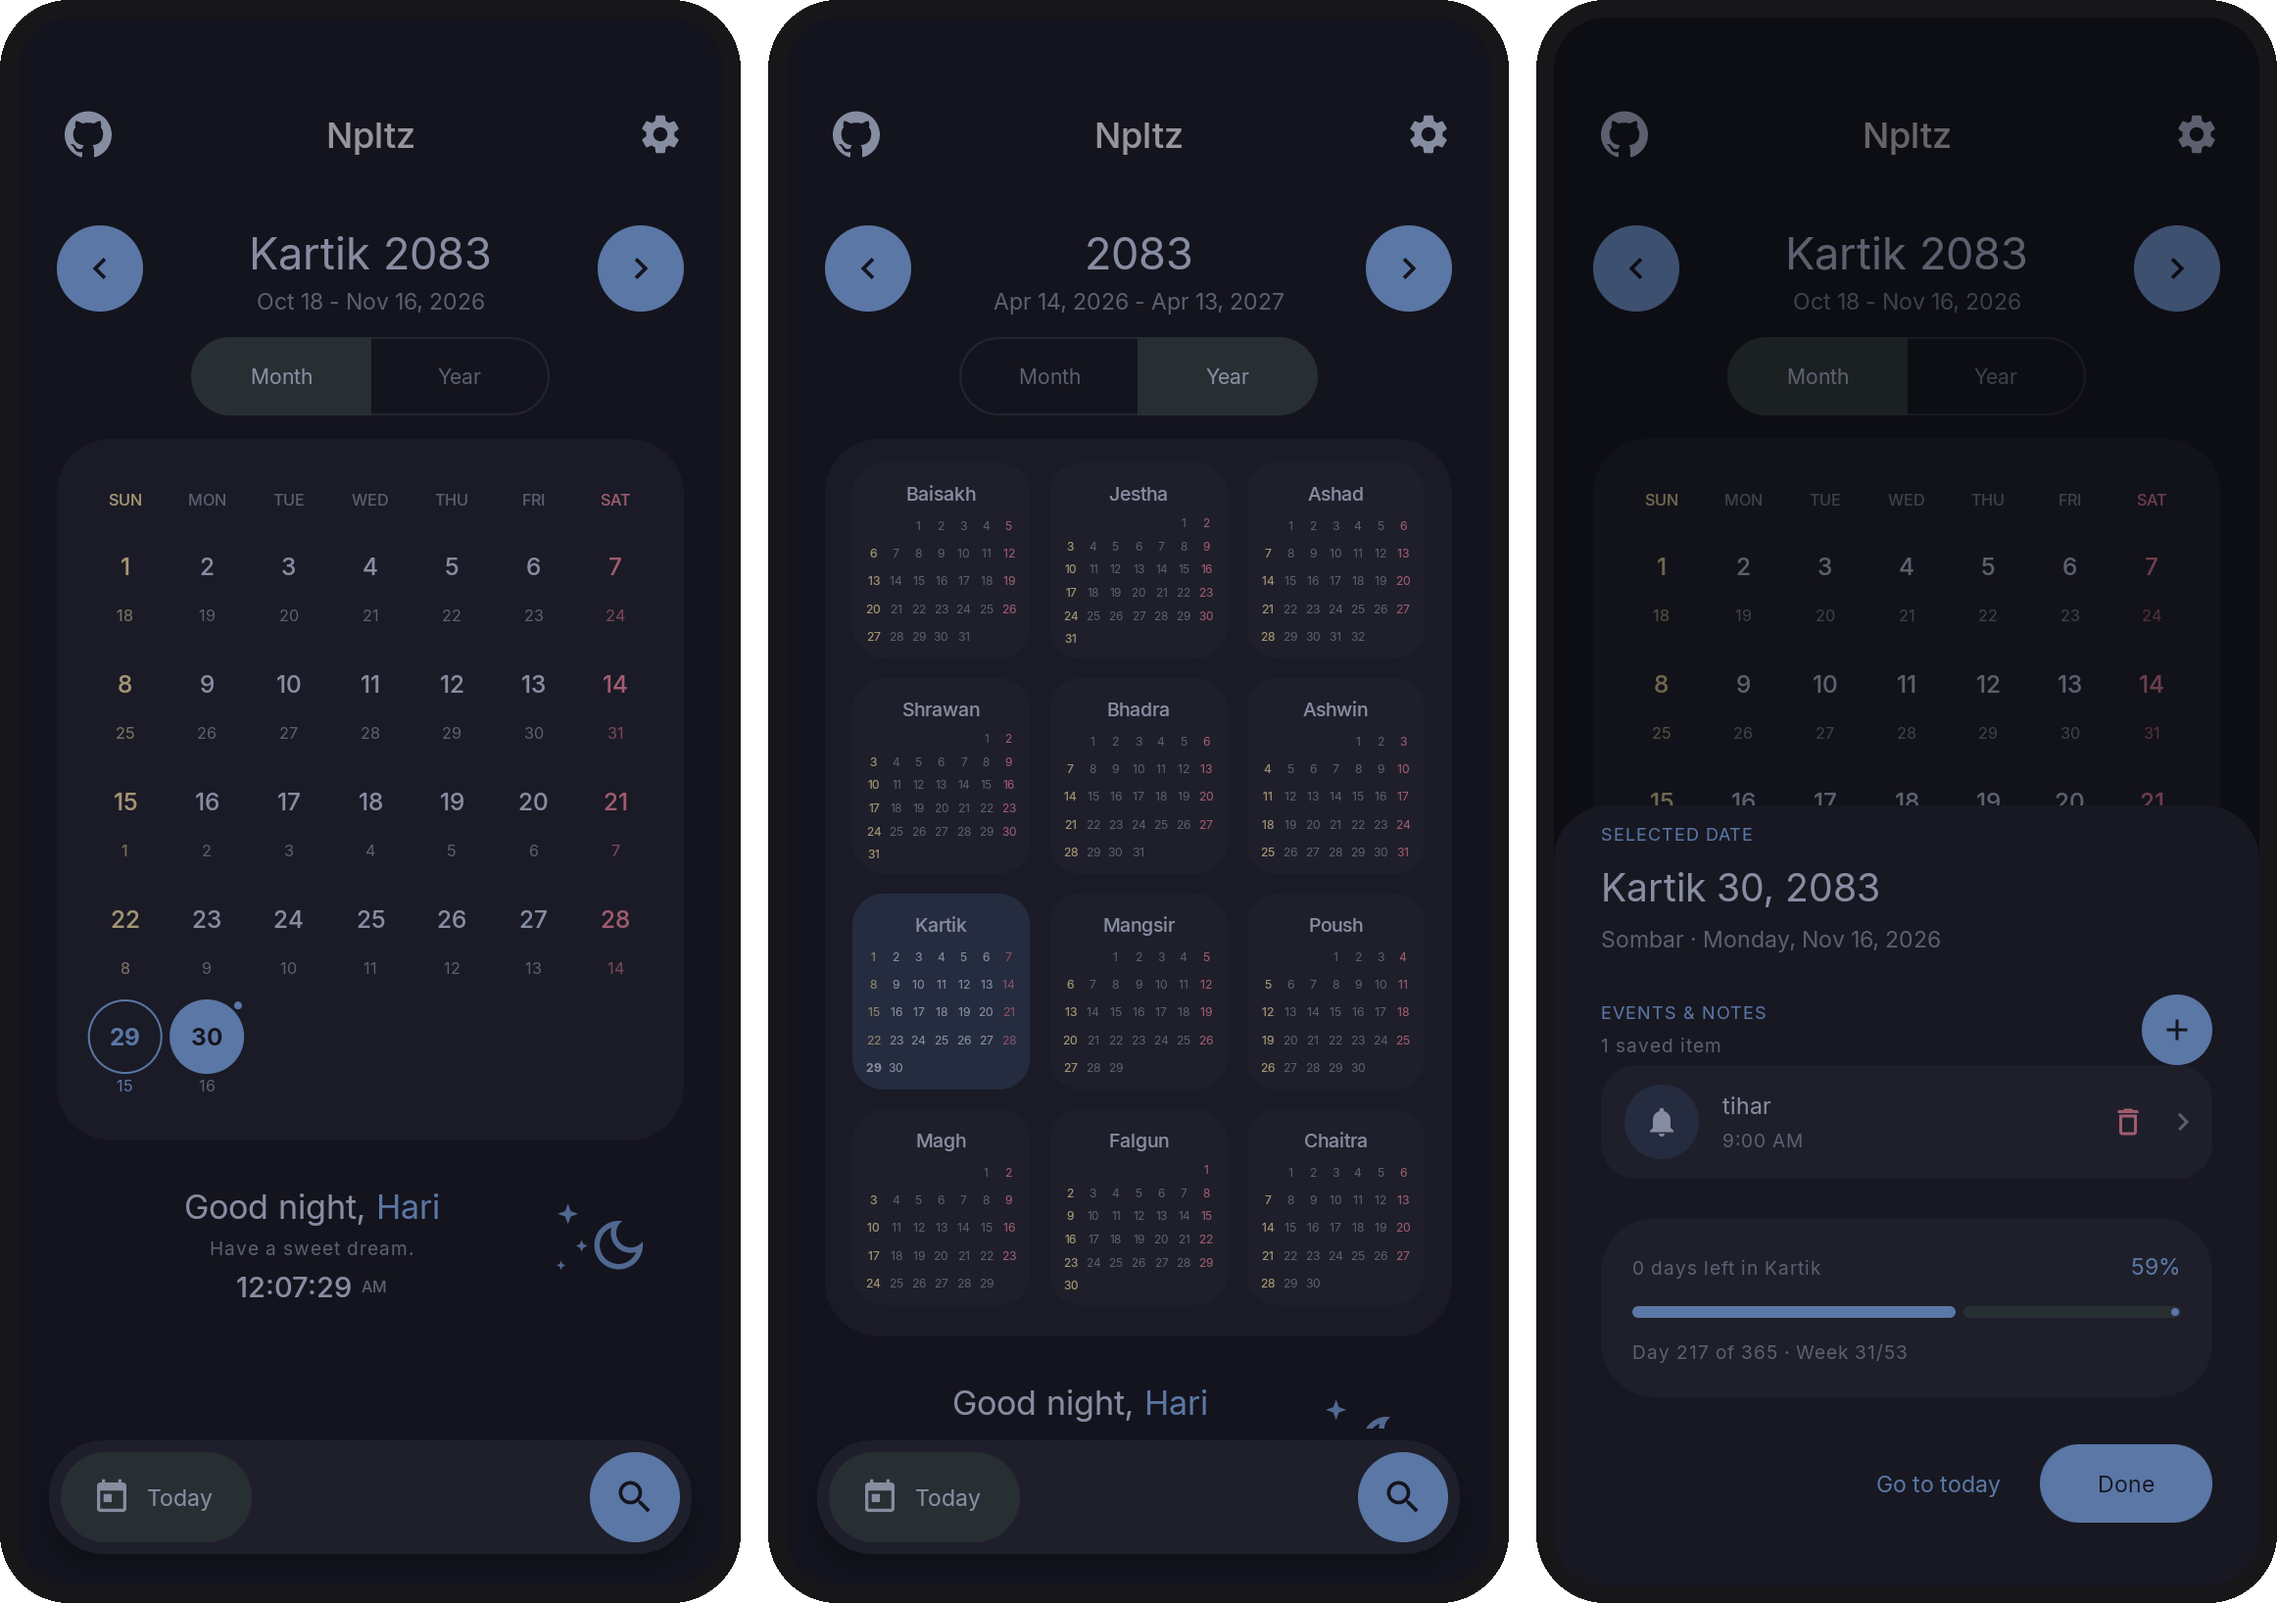
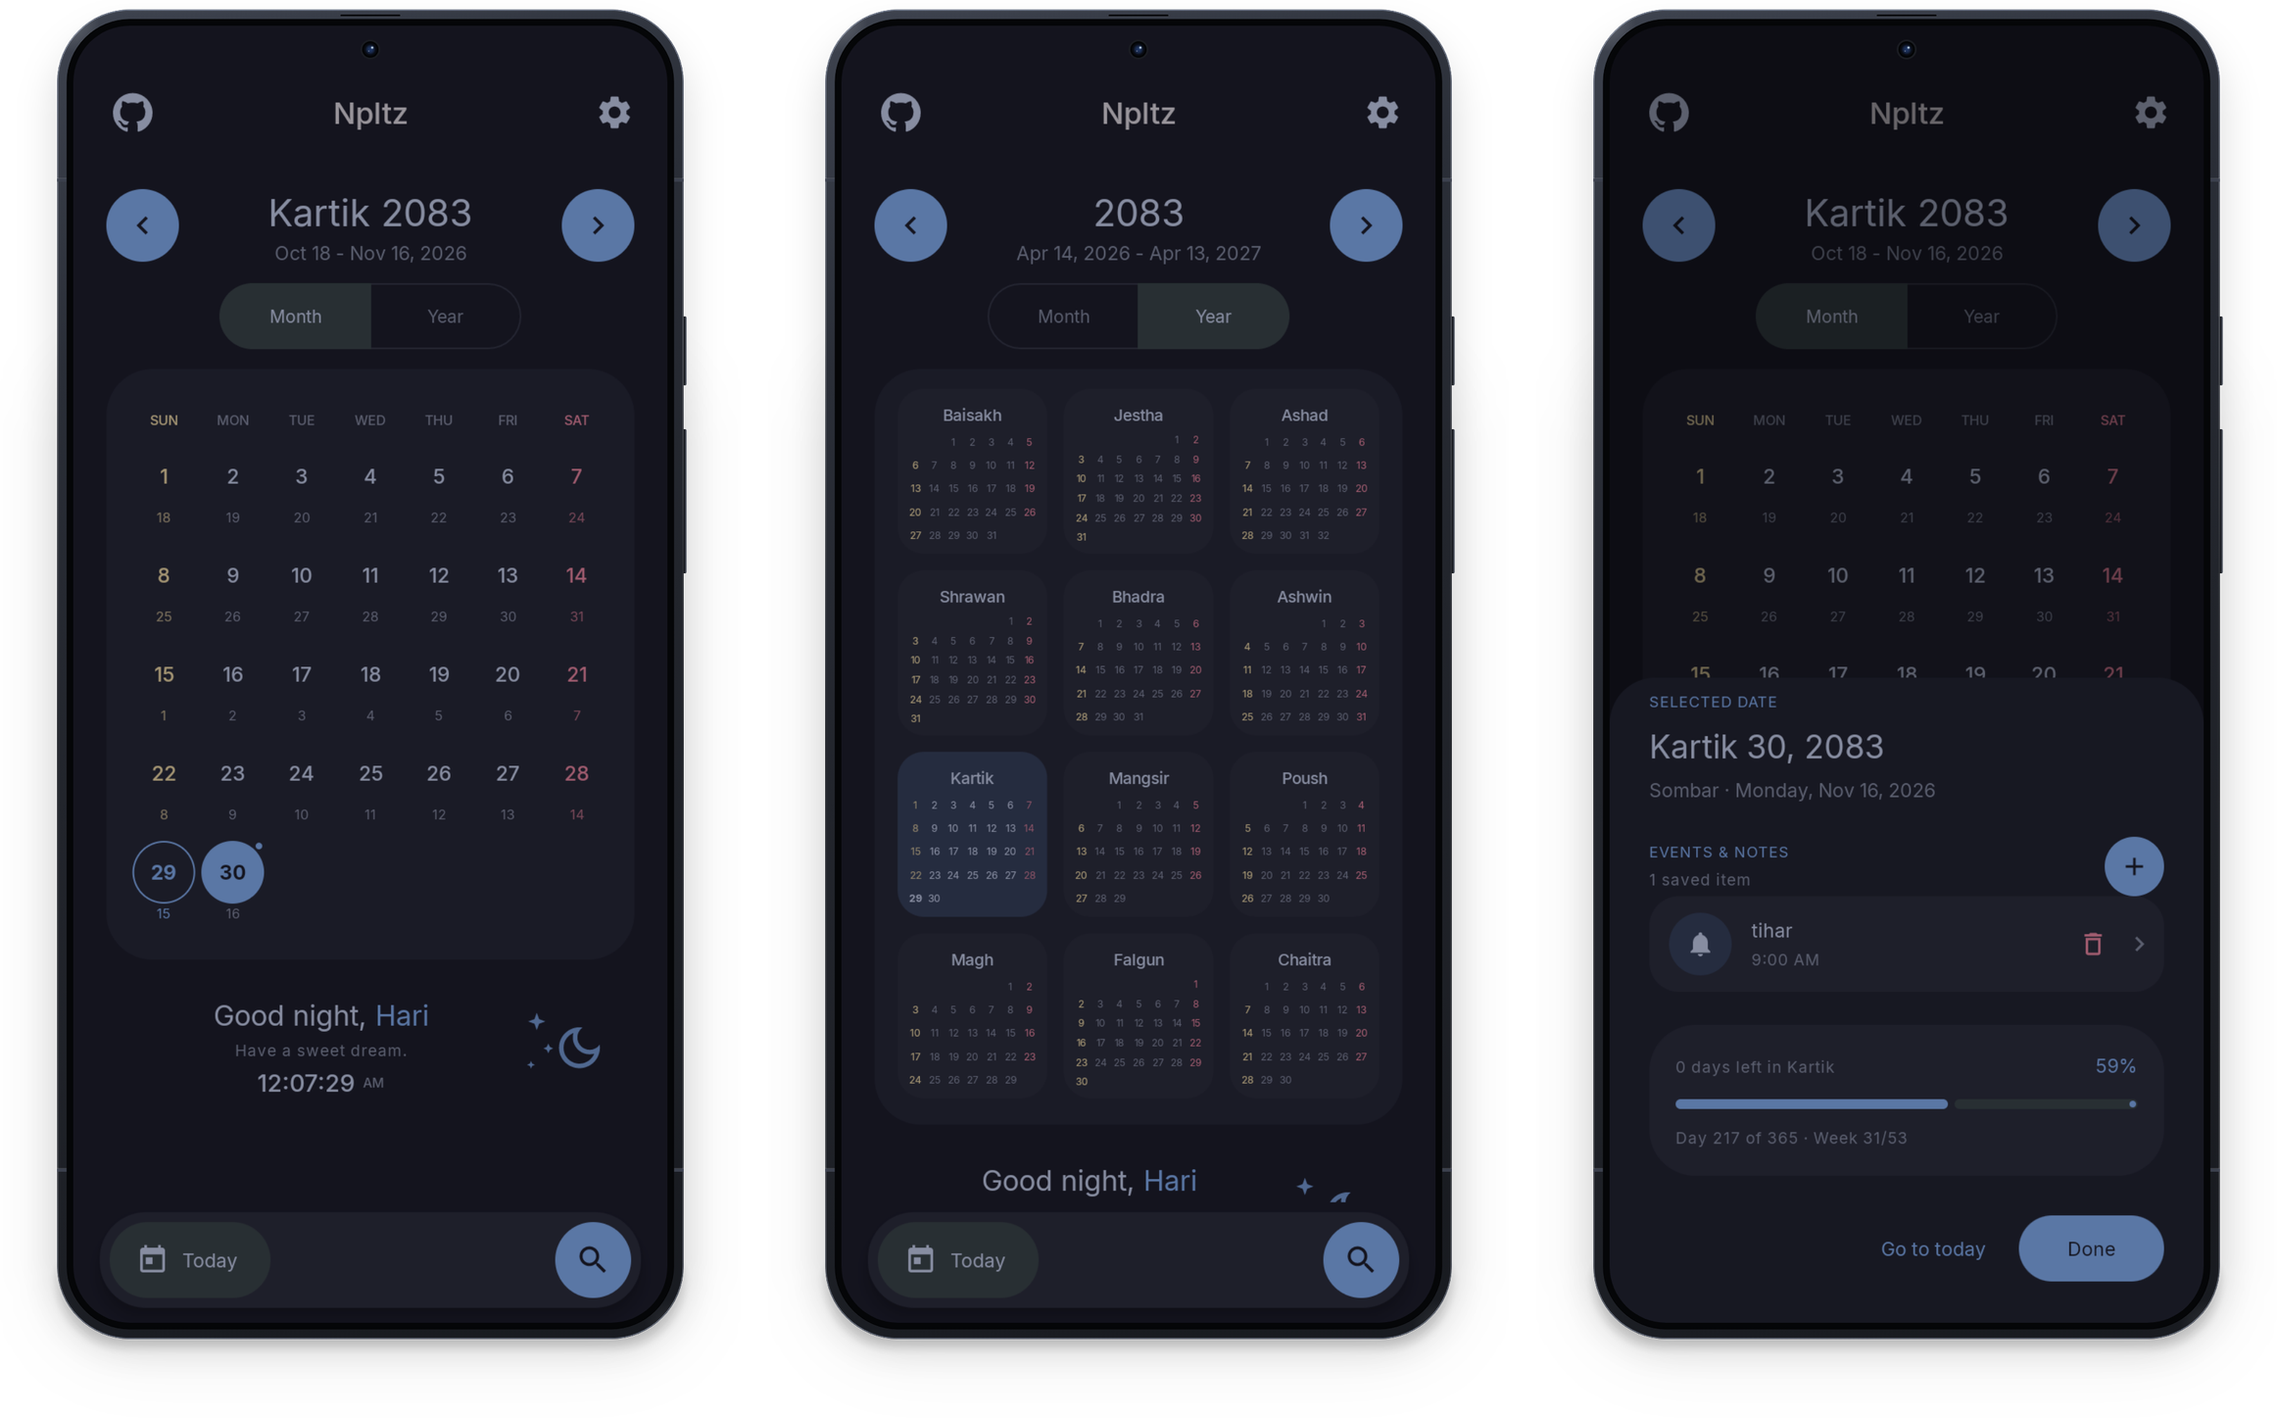
docs: add realistic phone mockups to site and README (#13)

diff --git a/docs/index.html b/docs/index.html
@@ -15,7 +15,7 @@
   <meta property="og:image" content="https://raw.githubusercontent.com/harilvfs/npltz-android/main/docs/icon.png">
   <link rel="preload" href="assets/fonts/inter-regular.ttf" as="font" type="font/ttf" crossorigin>
   <link rel="preload" href="assets/fonts/inter-medium.ttf" as="font" type="font/ttf" crossorigin>
-  <link rel="stylesheet" href="styles.css?v=8">
+  <link rel="stylesheet" href="styles.css?v=14">
   <script>
     // Older browsers do not support gap in flex layouts.
     try {
@@ -174,8 +174,10 @@
       <p class="fineprint" data-i18n="fineprint">Android 5.0 and up. Free and open source, GPL-3.0. Built with Material 3.</p>
     </div>
     <div class="hero-art">
-      <img class="phone hero-phone" src="screens/home.png" width="756" height="1636"
-           alt="Npltz month view showing Kartik 2083 with BS and AD dates under each day">
+      <div class="phone-device hero-phone">
+        <img src="screens/web/home-hero.webp" width="900" height="1723"
+             alt="Npltz month view showing Kartik 2083 with BS and AD dates under each day">
+      </div>
     </div>
   </section>
 
@@ -252,37 +254,50 @@
 
     <div class="rail">
       <figure class="shot">
-        <img class="phone" src="screens/home.png" width="756" height="1636" loading="lazy"
-             alt="Month view with BS and AD dates">
+        <div class="phone-device">
+          <img src="screens/web/home.webp" width="700" height="1340" loading="lazy" decoding="async" fetchpriority="low"
+               alt="Month view with BS and AD dates">
+        </div>
         <figcaption data-i18n="cap_month">Month view</figcaption>
       </figure>
       <figure class="shot">
-        <img class="phone" src="screens/year.png" width="756" height="1636" loading="lazy"
-             alt="Year view of 2083 BS">
+        <div class="phone-device">
+          <img src="screens/web/year.webp" width="700" height="1340" loading="lazy" decoding="async" fetchpriority="low"
+               alt="Year view of 2083 BS">
+        </div>
         <figcaption data-i18n="cap_year">Year view</figcaption>
       </figure>
       <figure class="shot">
-        <img class="phone" src="screens/day.png" width="756" height="1636" loading="lazy"
-             alt="Day details with week number and year progress">
+        <div class="phone-device">
+          <img src="screens/web/day.webp" width="700" height="1340" loading="lazy" decoding="async" fetchpriority="low"
+               alt="Day details with week number and year progress">
+        </div>
         <figcaption data-i18n="cap_day">Day details</figcaption>
       </figure>
       <figure class="shot">
-        <img class="phone" src="screens/events.png" width="756" height="1636" loading="lazy"
-             alt="Events and notes for a date">
+        <div class="phone-device">
+          <img src="screens/web/events.webp" width="700" height="1340" loading="lazy" decoding="async" fetchpriority="low"
+               alt="Events and notes for a date">
+        </div>
         <figcaption data-i18n="cap_events">Events and notes</figcaption>
       </figure>
       <figure class="shot">
-        <img class="phone" src="widgets.png" width="756" height="1636" loading="lazy"
-             alt="Home screen widgets for date, month and greeting">
+        <div class="phone-device">
+          <img src="screens/web/widgets.webp" width="700" height="1340" loading="lazy" decoding="async" fetchpriority="low"
+               alt="Home screen widgets for date, month and greeting">
+        </div>
         <figcaption data-i18n="cap_widgets">Widgets</figcaption>
       </figure>
       <figure class="shot">
-        <img class="phone" src="screens/notifications.png" width="756" height="1636" loading="lazy"
-             alt="Persistent date notification">
+        <div class="phone-device">
+          <img src="screens/web/notifications.webp" width="700" height="1340" loading="lazy" decoding="async" fetchpriority="low"
+               alt="Persistent date notification">
+        </div>
         <figcaption data-i18n="cap_notifications">Notifications</figcaption>
       </figure>
     </div>
     <p class="rail-note" data-i18n="rail_note">Screenshots use the default Catppuccin Mocha theme.</p>
+    <p class="mockup-credit"><a href="https://github.com/boxcreate/boxmock" target="_blank" rel="noopener noreferrer" data-i18n="mockup_credit">Phone mockups rendered with boxmock (Pixel 9 Pro).</a></p>
   </section>
 
   <section class="section wrap" id="themes">
@@ -334,8 +349,10 @@
         </div>
       </div>
       <div class="themes-art">
-        <img class="phone" src="screens/settings.png" width="756" height="1636" loading="lazy"
-             alt="Settings page with theme, font, text size and language options">
+        <div class="phone-device theme-phone">
+          <img id="theme-home-preview" src="screens/web/theme-catppuccin-mocha.webp" width="700" height="1340" loading="lazy" decoding="async"
+               alt="Npltz home screen in the selected color theme">
+        </div>
       </div>
     </div>
   </section>
@@ -455,6 +472,6 @@
   <svg class="icon" aria-hidden="true"><use href="#i-up"/></svg>
 </button>
 
-<script src="script.js?v=5"></script>
+<script src="script.js?v=8"></script>
 </body>
 </html>

diff --git a/docs/styles.css b/docs/styles.css
@@ -210,14 +210,12 @@
 [data-theme="plain-dark"],
 [data-theme="rose-pine"] {
   color-scheme: dark;
-  --phone-shadow: rgba(0, 0, 0, 0.45);
   --foot-link: var(--on-surface-variant);
 }
 
 [data-theme="light"],
 [data-theme="warm-reading"] {
   color-scheme: light;
-  --phone-shadow: rgba(40, 30, 20, 0.18);
   --foot-link: var(--on-surface-variant);
 }
 
@@ -631,8 +629,20 @@ img {
   justify-content: center;
 }
 
-.phone {
-  filter: drop-shadow(0 26px 48px var(--phone-shadow));
+.phone-device {
+  position: relative;
+  width: 100%;
+  aspect-ratio: 1182 / 2263;
+}
+
+.phone-device > img {
+  position: absolute;
+  top: 0;
+  left: 0;
+  display: block;
+  width: 100%;
+  height: 100%;
+  object-fit: contain;
 }
 
 .hero-phone {
@@ -762,6 +772,8 @@ img {
   overflow-x: auto;
   scroll-snap-type: x mandatory;
   scrollbar-width: none;
+  overscroll-behavior-x: contain;
+  -webkit-overflow-scrolling: touch;
   border-radius: 20px;
   cursor: grab;
 }
@@ -781,9 +793,10 @@ img {
   margin: 0;
   text-align: center;
   scroll-snap-align: start;
+  scroll-snap-stop: always;
 }
 
-.shot img {
+.shot .phone-device {
   width: 100%;
 }
 
@@ -797,6 +810,17 @@ img {
   margin: 20px 0 0 4px;
   font-size: 13px;
   color: var(--on-surface-variant);
+}
+
+.mockup-credit {
+  margin: 8px 0 0 4px;
+  font-size: 12px;
+}
+
+.mockup-credit a {
+  color: var(--on-surface-variant);
+  text-decoration-color: var(--outline);
+  text-underline-offset: 3px;
 }
 
 .themes-grid {
@@ -863,7 +887,7 @@ img {
   justify-content: center;
 }
 
-.themes-art img {
+.theme-phone {
   width: min(305px, 100%);
 }
 

diff --git a/docs/script.js b/docs/script.js
@@ -68,6 +68,7 @@
     cap_widgets: "विजेट",
     cap_notifications: "सूचना",
     rail_note: "स्क्रिनसटहरू पूर्वनिर्धारित Catppuccin Mocha थिममा छन्।",
+    mockup_credit: "फोन मोकअप boxmock (Pixel 9 Pro) बाट रेन्डर गरिएका हुन्।",
 
     themes_eyebrow: "थिम",
     themes_h2: "नौ थिम। एउटा छान्नुहोस्।",
@@ -200,9 +201,13 @@
 
   var themeColor = document.querySelector('meta[name="theme-color"]');
   var buttons = document.querySelectorAll("[data-set-theme]");
+  var themePreview = document.getElementById("theme-home-preview");
 
   function apply(theme, remember) {
     root.dataset.theme = theme;
+    if (themePreview) {
+      themePreview.src = "screens/web/theme-" + theme + ".webp";
+    }
     buttons.forEach(function (button) {
       button.setAttribute(
         "aria-pressed",

diff --git a/README.md b/README.md
@@ -15,9 +15,9 @@ No ads, no tracking and no network permission.
 
 <div align="center">
 
-<a href="docs/screens-1.png"><img src="docs/screens-1.png" width="396" alt="Month view, year view and the day sheet" /></a> <a href="docs/screens-2.png"><img src="docs/screens-2.png?v=2" width="130" alt="Events and notes" /></a> <a href="docs/widgets.png"><img src="docs/widgets.png?v=2" width="130" alt="npltz widgets on a home screen" /></a> <a href="docs/screens/notifications.png"><img src="docs/screens/notifications.png" width="130" alt="The date notification" /></a>
+<a href="docs/screens-1.png?v=4"><img src="docs/screens-1.png?v=4" width="396" alt="Month view, year view and the day sheet in phone frames" /></a> <a href="docs/screens-2.png?v=5"><img src="docs/screens-2.png?v=5" width="130" alt="Events and notes in a phone frame" /></a> <a href="docs/screens/device/widgets.png"><img src="docs/screens/device/widgets.png" width="130" alt="Npltz widgets on a home screen in a phone frame" /></a> <a href="docs/screens/device/notifications.png"><img src="docs/screens/device/notifications.png" width="130" alt="The date notification in a phone frame" /></a>
 
-<sub>Month and year views, day details, events, widgets and the date notification.<br />Tap any screen to see it full size.</sub>
+<sub>Month and year views, day details, events, widgets and the date notification.<br />Tap any screen to see it full size. Phone mockups rendered with <a href="https://github.com/boxcreate/boxmock">boxmock</a> (Pixel 9 Pro).</sub>
 
 </div>
 

diff --git a/docs/screens/device/ATTRIBUTION.md b/docs/screens/device/ATTRIBUTION.md
@@ -1,0 +1,3 @@
+# Device mockup image provenance
+
+These transparent Pixel 9 Pro mockup PNGs were rendered from the app screenshots with [boxmock](https://github.com/boxcreate/boxmock), using its 2D renderer at source commit `113959e11c13e5951d74cd4bfea0433349bab2d0`. The renderer source is licensed under GPL-3.0-or-later. The project states that exported images may be used without restriction; see its [README](https://github.com/boxcreate/boxmock#license).
